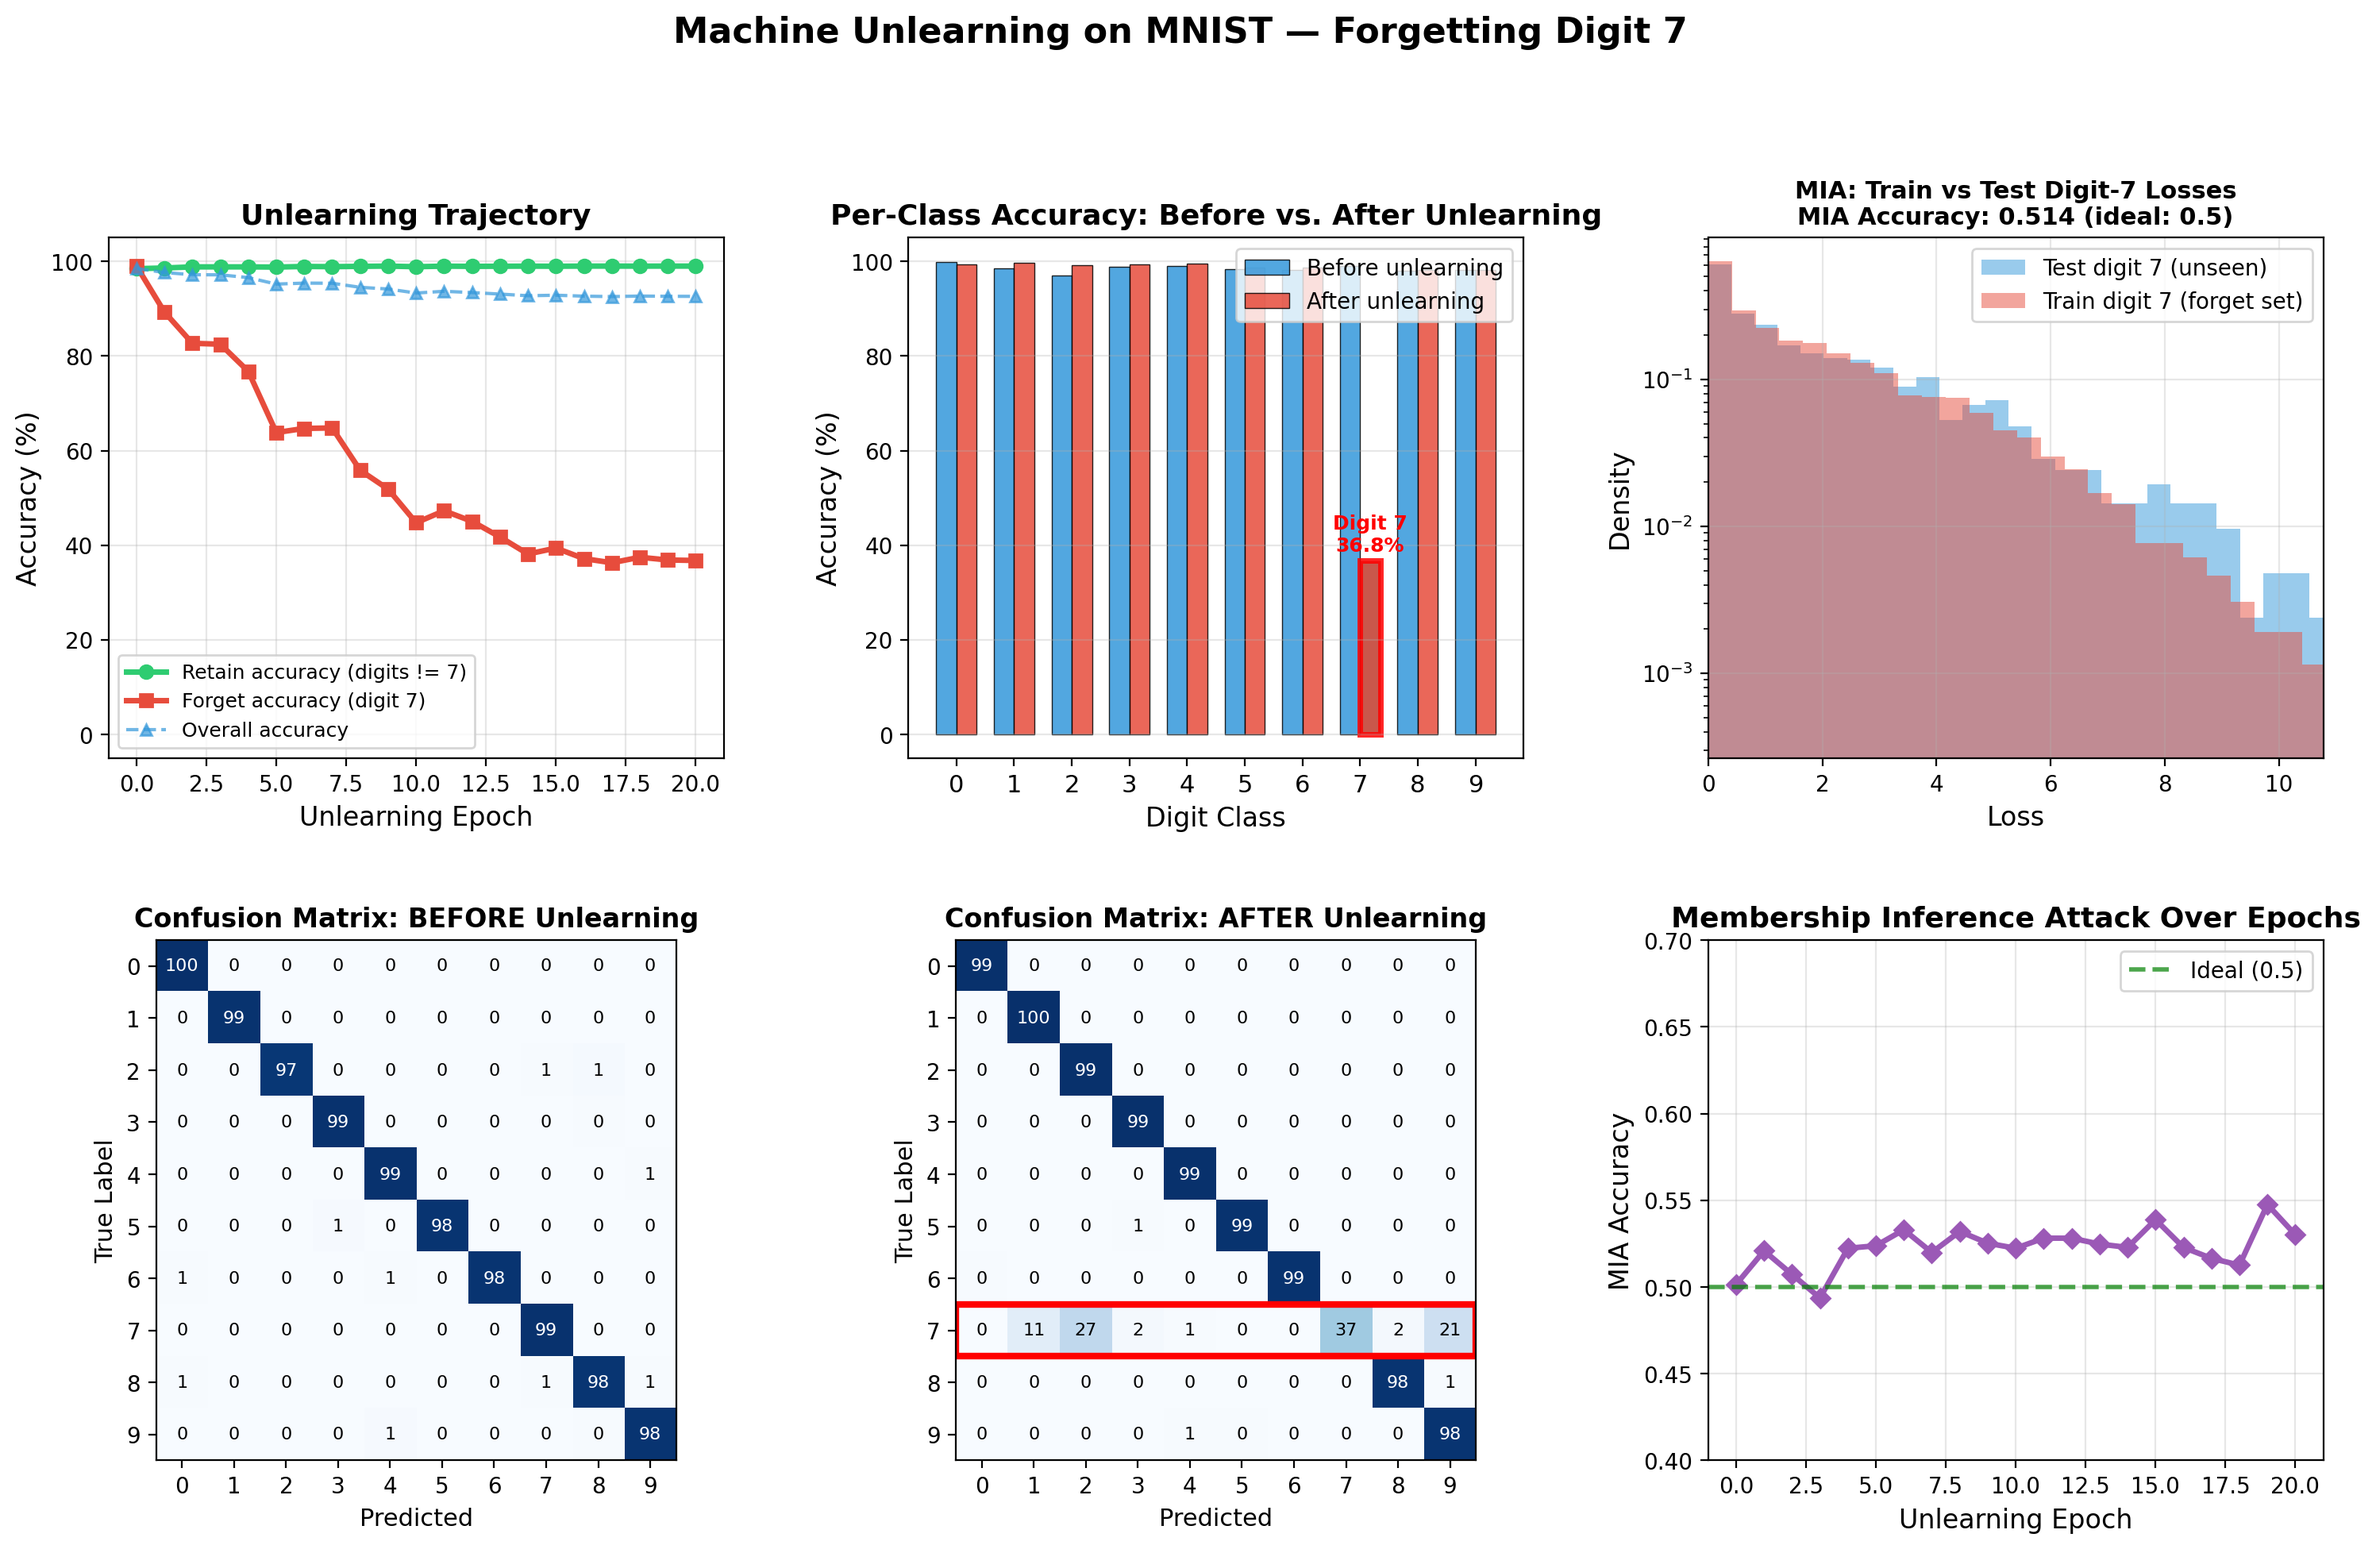
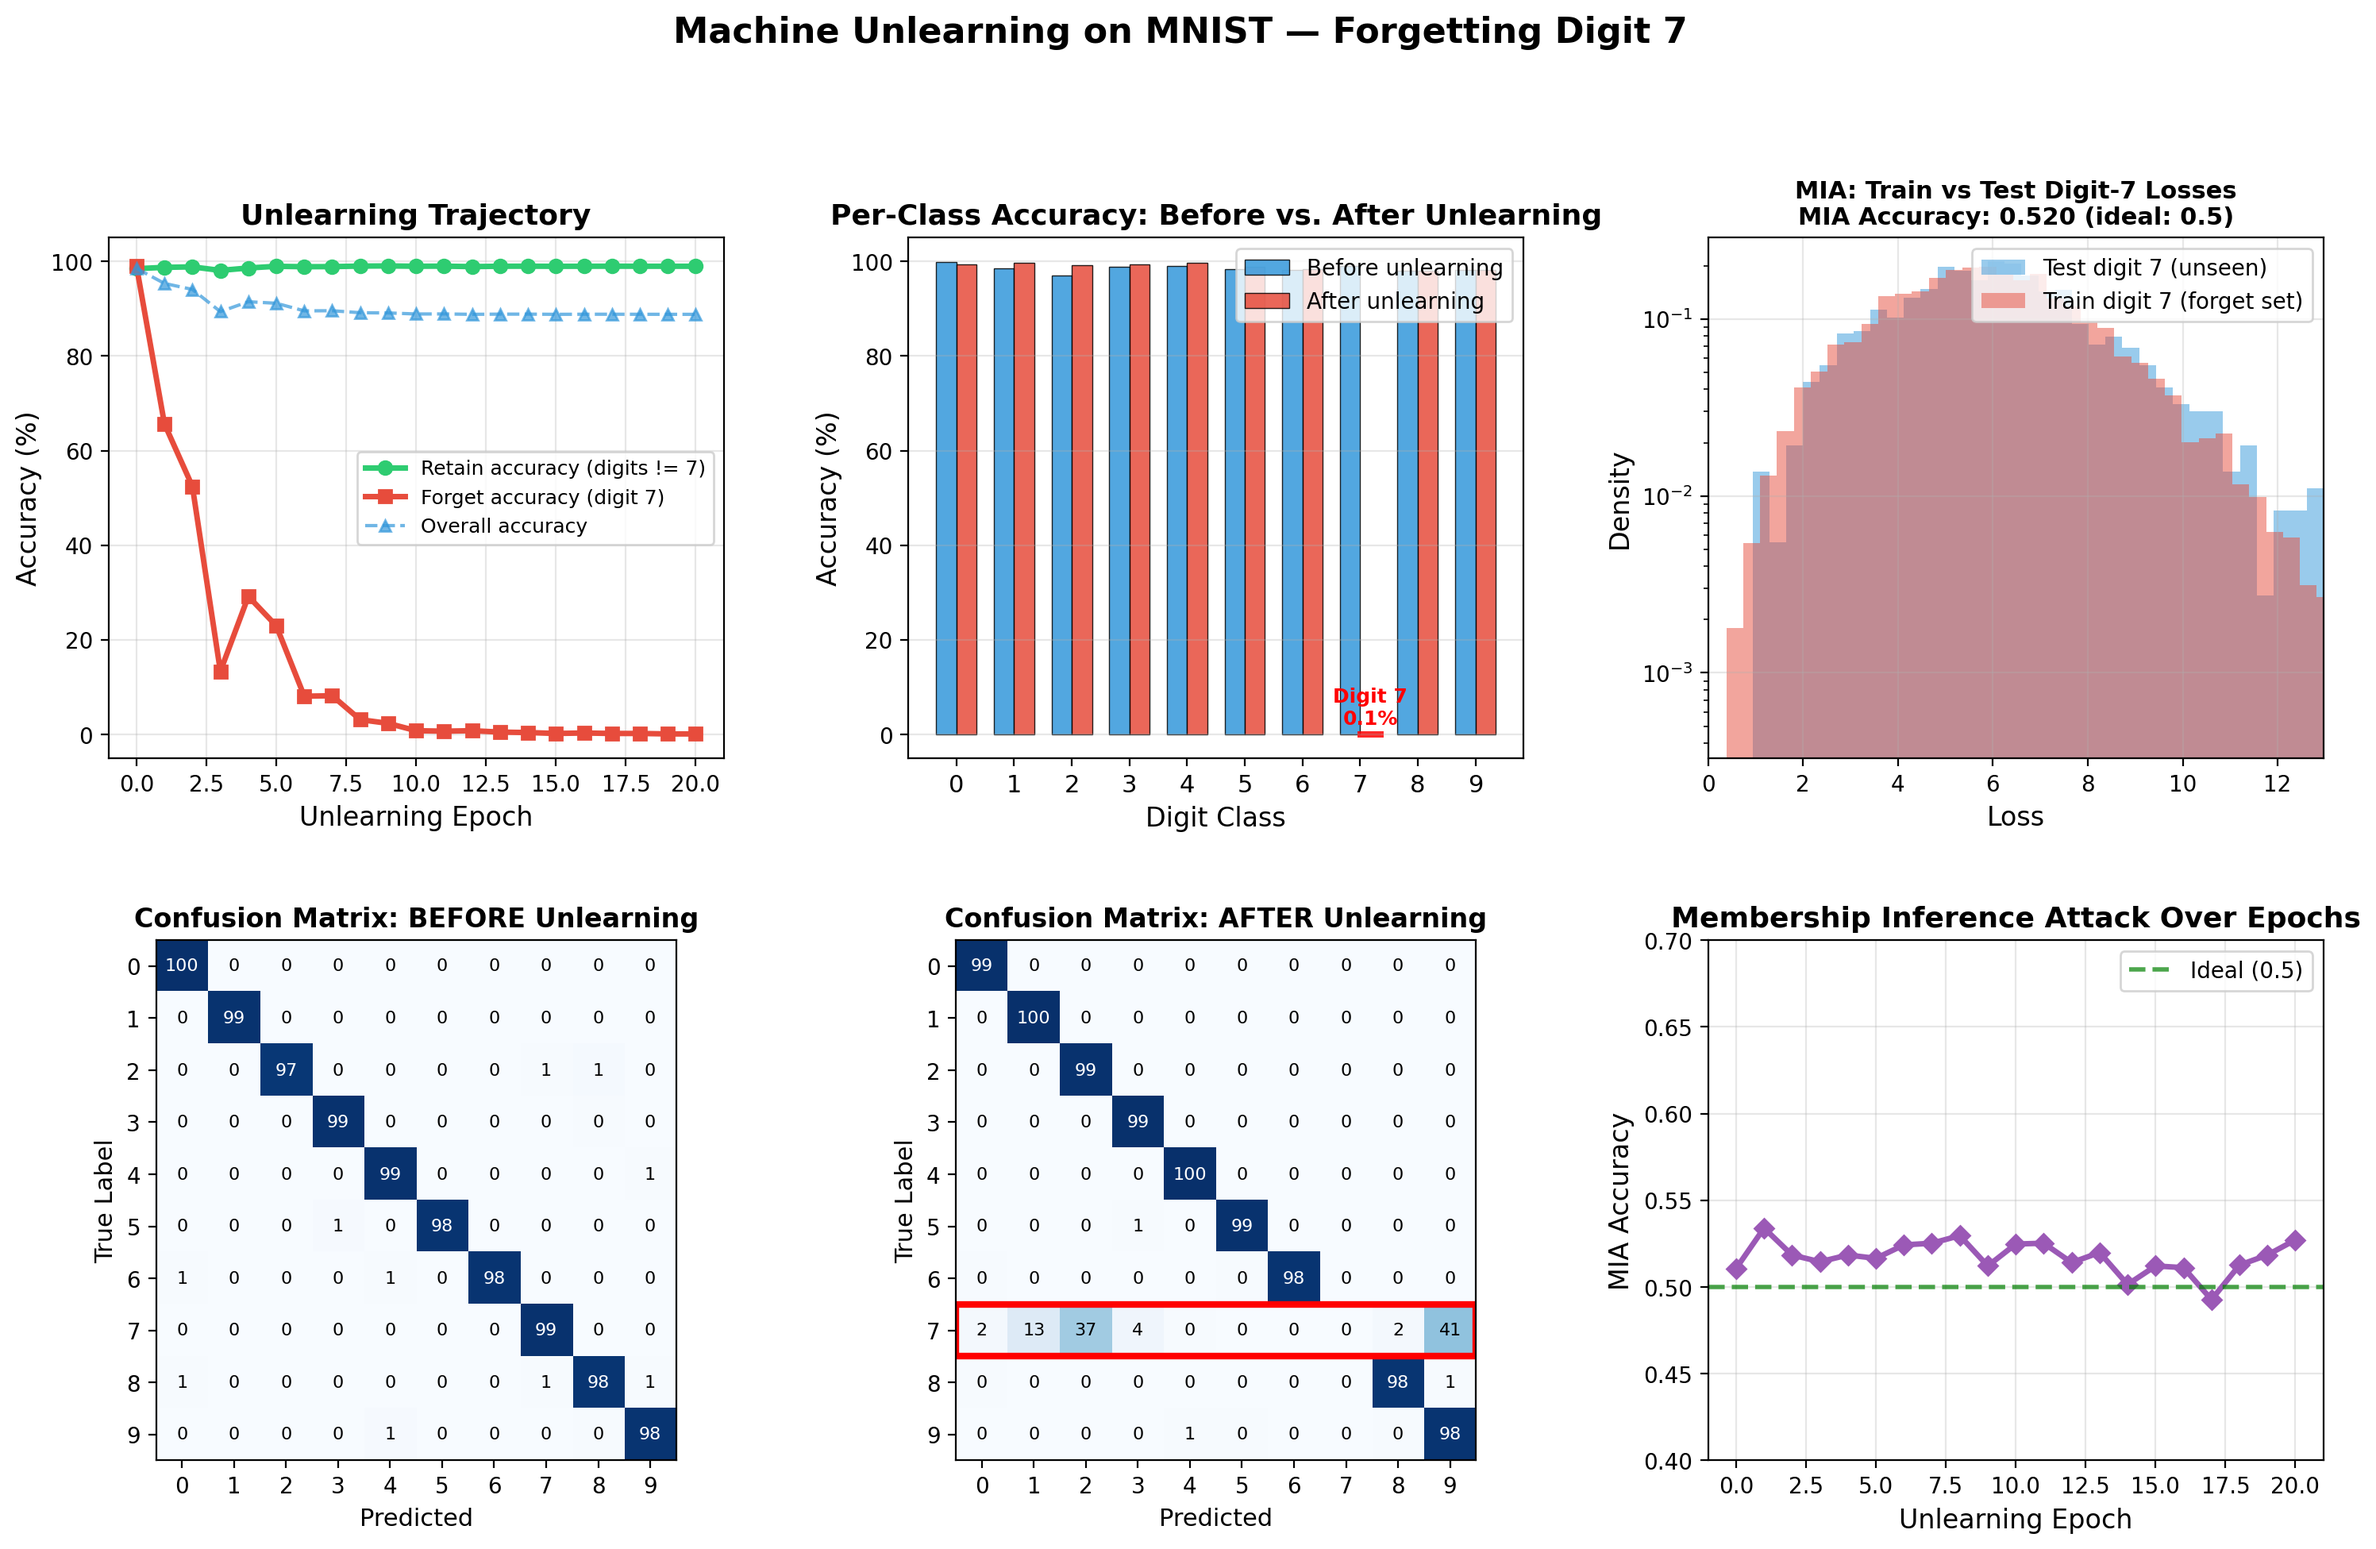
Fix plot2 unlearning: increase LR from 0.05 to 0.1 for complete forgetting
With lr=0.05, forget accuracy plateaued at ~35% (model still partially
recognized digit 7). Increasing to lr=0.1 achieves complete forgetting:

- Forget accuracy: 99% -> 0.1% (was stuck at 35% before)
- Retain accuracy: 99.0% (unchanged, no degradation)
- Overall accuracy: 88.8% (expected for 9/10 classes)
- MIA accuracy: 0.520 (near-ideal 0.5, model treats forget data as unseen)

diff --git a/experiments/unlearning/plot2_unlearning.py b/experiments/unlearning/plot2_unlearning.py
@@ -170,7 +170,7 @@ unlearn_net = copy.deepcopy(net)
 criterion = nn.CrossEntropyLoss()
 
 n_epochs = 20
-optimizer = torch.optim.SGD(unlearn_net.parameters(), lr=0.05, momentum=0.9, weight_decay=5e-4)
+optimizer = torch.optim.SGD(unlearn_net.parameters(), lr=0.1, momentum=0.9, weight_decay=5e-4)
 scheduler = torch.optim.lr_scheduler.CosineAnnealingLR(optimizer, T_max=n_epochs)
 
 # Track metrics over epochs
@@ -184,7 +184,7 @@ history = {
 }
 
 print(f"\nUnlearning: fine-tuning on retain set only for {n_epochs} epochs...")
-print(f"  Optimizer: SGD(lr=0.05, momentum=0.9, wd=5e-4)")
+print(f"  Optimizer: SGD(lr=0.1, momentum=0.9, wd=5e-4)")
 print(f"  Scheduler: CosineAnnealingLR")
 
 for epoch in range(n_epochs):
